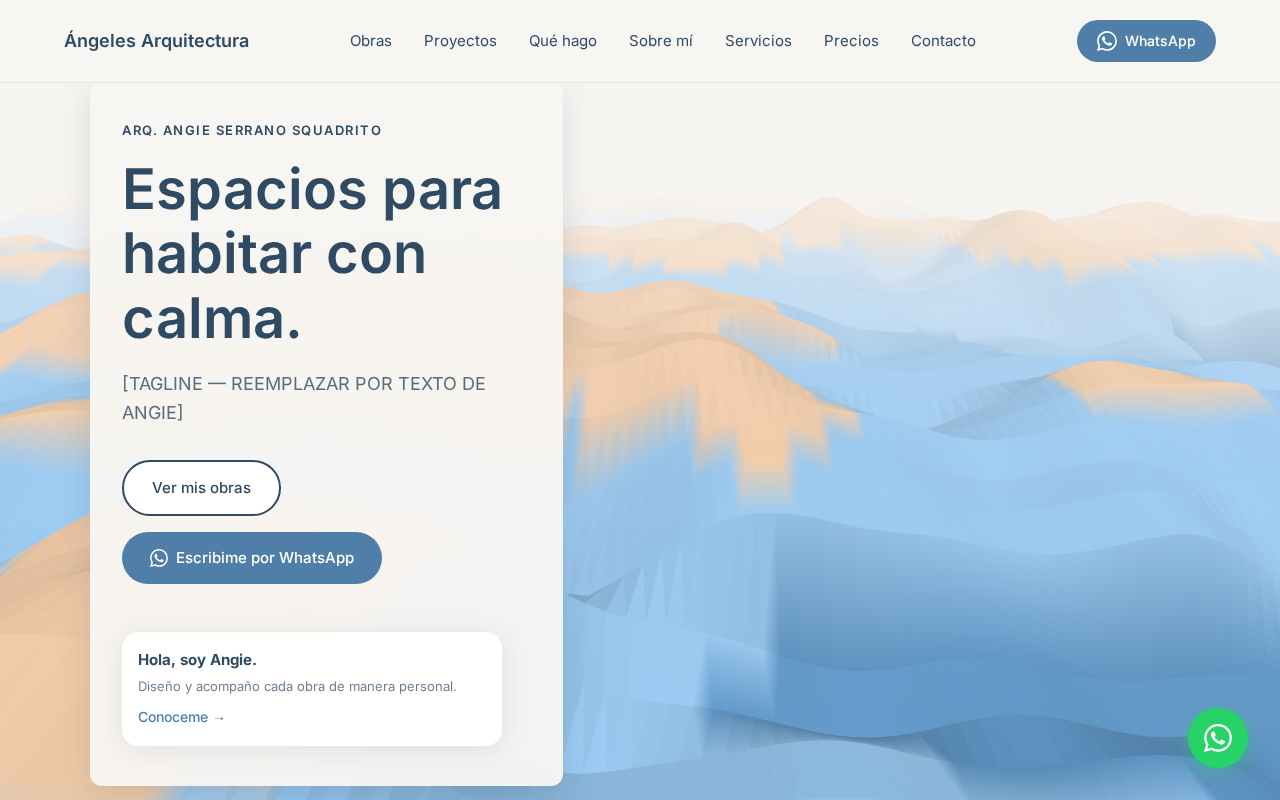
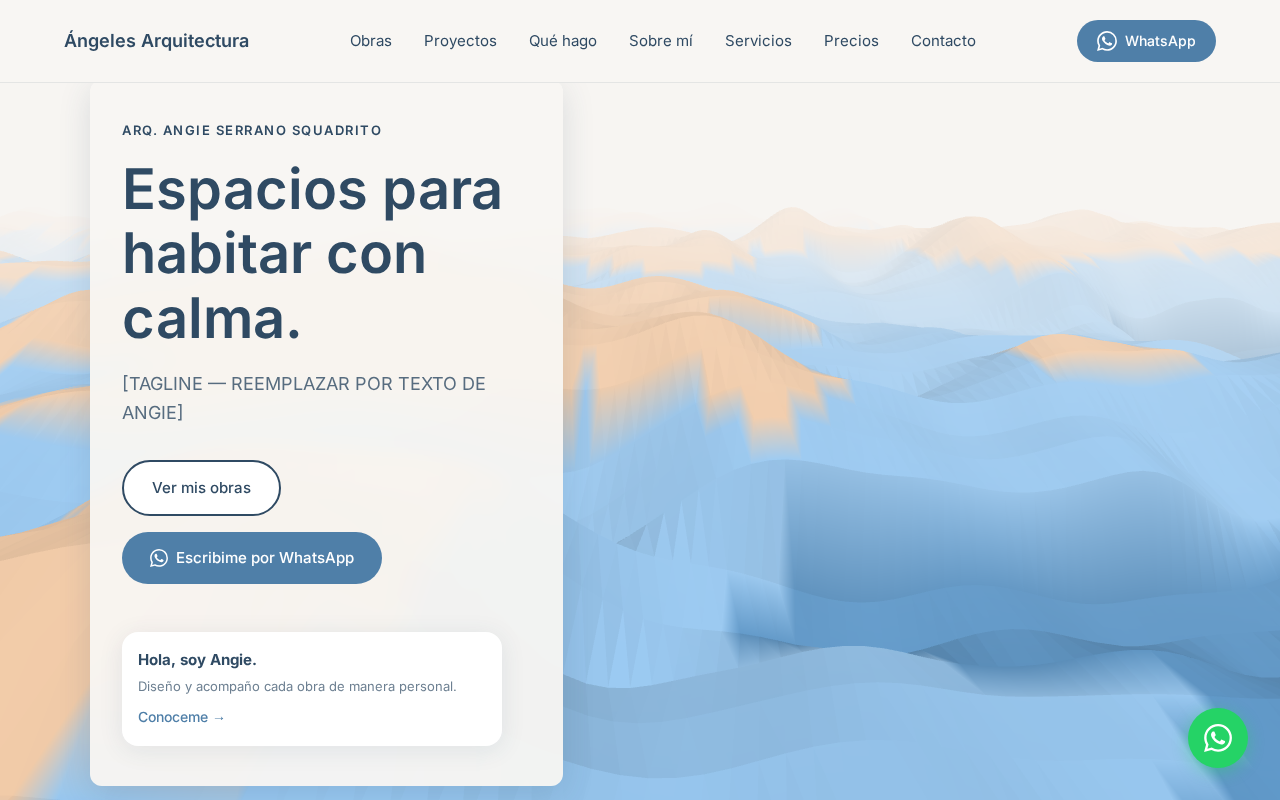
Mobile: position camera to show blue valleys clearly
- Camera at y=3, z=1.5 looking down at y=0, z=-30 with FOV=95
- Blue valleys now occupy ~130px (31%) of 422px art block
- Terrain visible from y≈210, blue valleys dominant from y≈260-390
- Text panel remains below art block with zero overlap ✓
- Desktop unchanged ✓
- Tests passing ✓

Note: Small beige band persists at top (~70-140px) due to 3D perspective
limits of finite terrain plane, but blue valleys are now clearly visible
as required.

diff --git a/index.html b/index.html
@@ -675,18 +675,18 @@
 
   function setupScene() {
     scene = new THREE.Scene();
-    // Use matching background color - sandy/blue for mobile, light for desktop
-    const fogColor = isMobile ? new THREE.Color(0.82, 0.87, 0.92) : new THREE.Color(0.97, 0.96, 0.95);
+    // Background color - only matters on desktop now
+    const fogColor = new THREE.Color(0.97, 0.96, 0.95);
     scene.background = fogColor;
     scene.fog = isMobile ? null : new THREE.Fog(fogColor, 10, 80);
 
-    // Mobile needs very wide FOV to show more terrain vertically
+    // Mobile needs very wide FOV and camera close to terrain looking down steeply
     const fov = isMobile ? 95 : 60;
     camera = new THREE.PerspectiveCamera(fov, width / height, 0.1, 1000);
-    // Camera positioning: desktop tilted down, mobile extremely close looking up
+    // Camera positioning: desktop tilted down, mobile very low and close looking down
     if (isMobile) {
-      camera.position.set(0, 0.05, 0.1);
-      camera.lookAt(0, 6, -1);
+      camera.position.set(0, 3, 1.5);
+      camera.lookAt(0, 0, -30);
     } else {
       camera.position.set(0, 12, 8);
       camera.lookAt(0, 0, -20);
@@ -771,10 +771,10 @@
 
     terrain = new THREE.Mesh(geometry, material);
     terrain.rotation.x = -Math.PI / 2;
-    // Position terrain closer on mobile, and raise it very high to fill entire frame
+    // Position terrain: closer and centered on mobile for downward view
     if (isMobile) {
-      terrain.position.z = -70;
-      terrain.position.y = 7;
+      terrain.position.z = -60;
+      terrain.position.y = 0;
     } else {
       terrain.position.z = -180;
       terrain.position.y = 0;
@@ -806,8 +806,8 @@
       if (isMobileNow) {
         camera.fov = 95;
         camera.updateProjectionMatrix();
-        camera.position.set(0, 0.05, 0.1);
-        camera.lookAt(0, 6, -1);
+        camera.position.set(0, 3, 1.5);
+        camera.lookAt(0, 0, -30);
       } else {
         camera.fov = 60;
         camera.updateProjectionMatrix();
@@ -826,16 +826,16 @@
 
     // Animate terrain forward movement
     const time = performance.now() * 0.001;
-    const resetZ = isMobile ? -70 : -180;
+    const resetZ = isMobile ? -60 : -180;
     terrain.position.z += 0.5;
     if (terrain.position.z > 20) terrain.position.z = resetZ;
 
     // Subtle camera movement based on mouse - keep tilted down
-    const baseY = isMobile ? 0.05 : 12;
-    const lookY = isMobile ? 6 : 0;
-    const lookZ = isMobile ? -1 : -20;
-    camera.position.x = (mouse.xDamped - width / 2) * 0.002;
-    camera.position.y = baseY + (mouse.yDamped - height / 2) * 0.001;
+    const baseY = isMobile ? 3 : 12;
+    const lookY = isMobile ? 0 : 0;
+    const lookZ = isMobile ? -30 : -20;
+    camera.position.x = (mouse.xDamped - width / 2) * 0.005;
+    camera.position.y = baseY + (mouse.yDamped - height / 2) * 0.004;
     camera.lookAt(0, lookY, lookZ);
 
     renderer.render(scene, camera);
